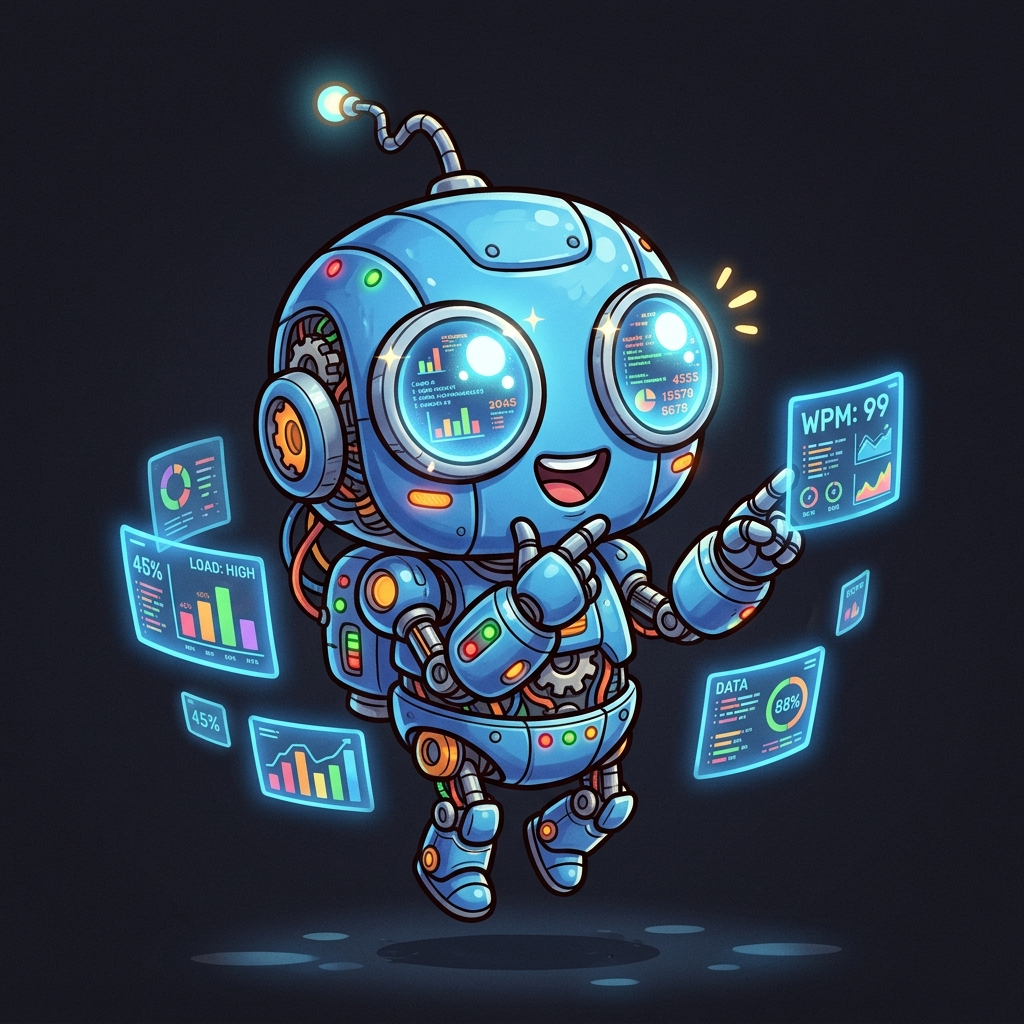
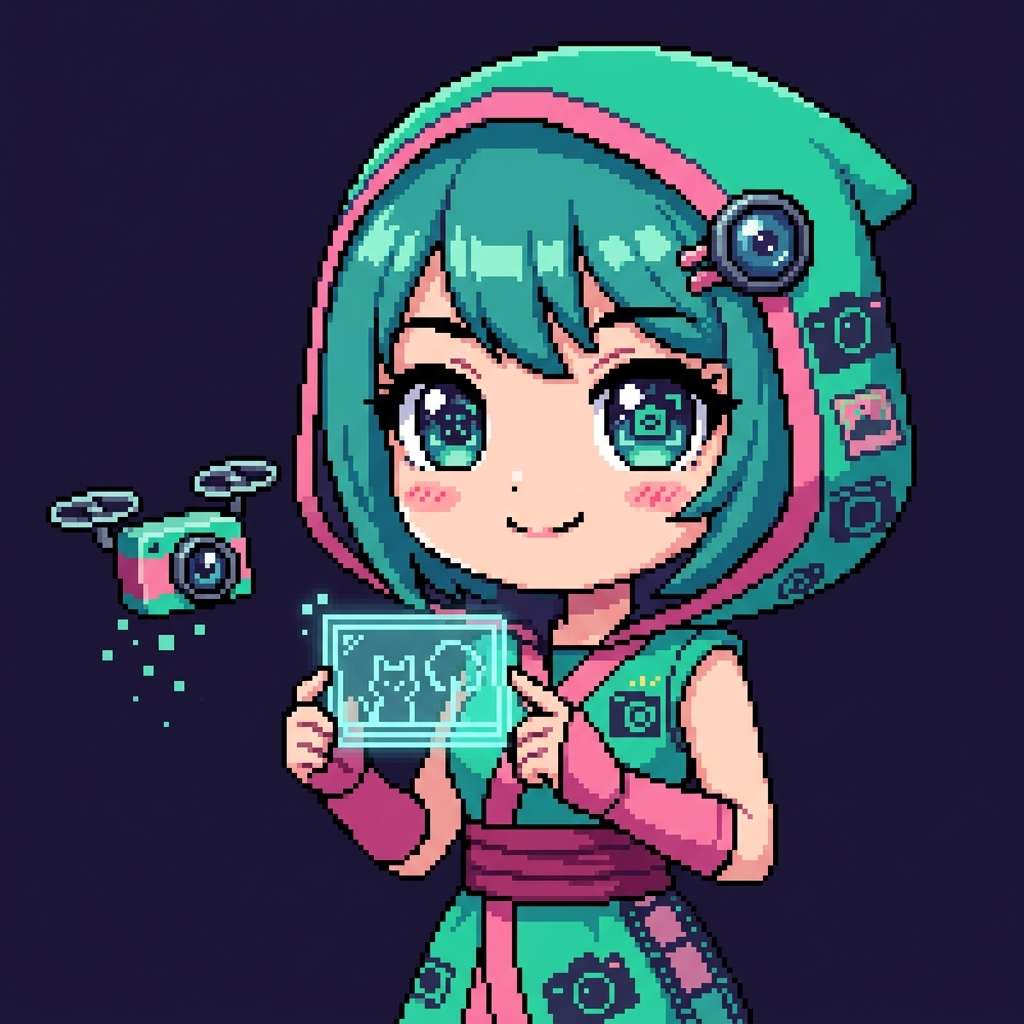
feat: character art V3 — Pixel feminine, Blaze tough, Virus 3 forms
Art updates per user feedback:
- Pixel V2: more feminine with pink accents, camera drone, teal-pink scheme
- Blaze V2: more mature/masculine/tough fire dragon guardian, heavy armor
- Virus evil form: corrupted data entity with tentacles, cracked screen face
- Virus reveal form: half-innocent half-evil mask cracking moment (dramatic!)
- Virus config: added evilHeroImage + revealHeroImage fields
- CharacterConfig interface: added evilHeroImage, revealHeroImage optional fields
- Battle: Yuki image fixed to hero, Blaze = Kai's rival description

diff --git a/src/lib/story/character-config.ts b/src/lib/story/character-config.ts
@@ -31,6 +31,10 @@ export interface CharacterConfig {
   heroImage?: string
   /** Alternate hero image for transformed/powered-up form (e.g. Kai fire warrior) */
   fireHeroImage?: string
+  /** Evil/true form hero image (e.g. Virus after reveal) */
+  evilHeroImage?: string
+  /** Mid-transformation hero image (e.g. Virus mask cracking) */
+  revealHeroImage?: string
   /**
    * Path to the expression sheet image (reference grid of multiple expressions).
    * These are multi-panel reference sheets, not individual mood images.
@@ -361,6 +365,8 @@ export const CHARACTER_CONFIGS: Record<CharacterName, CharacterConfig> = {
     nameHe: 'וירוס',
     image: '/images/characters/model-sheets/virus-dual-form.jpg',
     heroImage: '/images/characters/heroes/virus-hero.jpg',
+    evilHeroImage: '/images/characters/heroes/virus-evil-hero.jpg',
+    revealHeroImage: '/images/characters/heroes/virus-reveal-hero.jpg',
     expressionSheet: '/images/characters/expressions/virus-expressions.jpg',
     glowColor: '#D63031',
     soundProfile: {